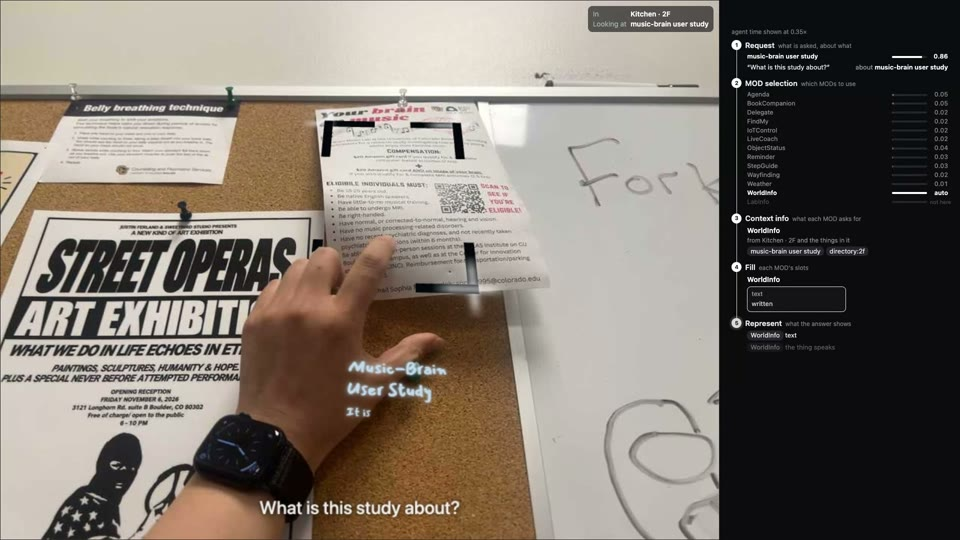
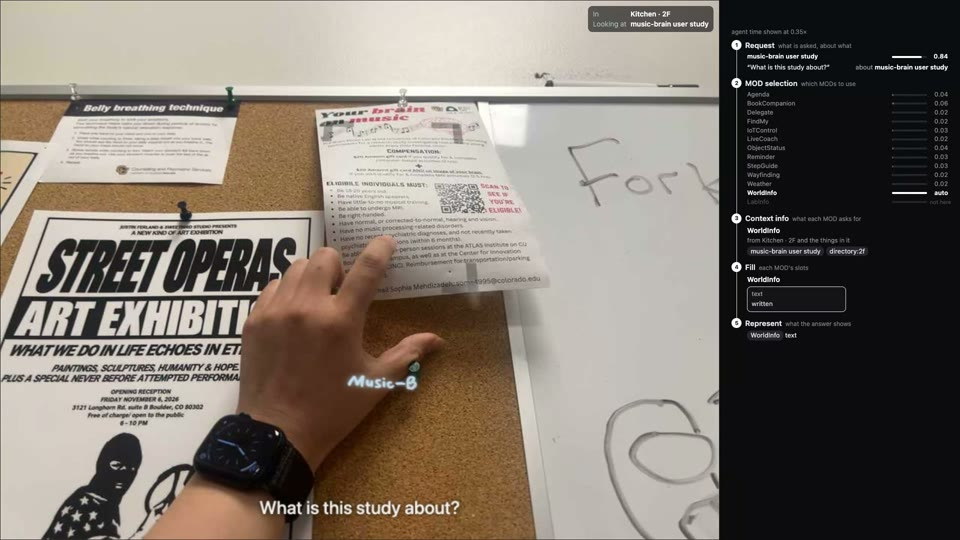
Design doc 10.15 (dialogue as a text form, legacy removed); WorldInfo clips re-recorded

diff --git a/recordings/manifest.js b/recordings/manifest.js
@@ -1,1 +1,1 @@
-window.MANIFEST={"clips":{"weather-corridor":{"name":"weather-corridor","mod":"Weather","question":"Do I need an umbrella tonight?","recording":"atlas_rec_2","ask_at":1,"video":"weather/weather-corridor.mp4","poster":"weather/weather-corridor.jpg","chosen":[["weather",0.98]],"answer":{"title":"No Umbrella Needed Tonight","body":"You won't need an umbrella tonight as soft snowfall is forecasted instead of rain."},"latency":1.23,"agent_speed":0.35},"worldinfo-text":{"name":"worldinfo-text","mod":"WorldInfo","question":"What is this study about?","recording":"atlas_rec_3","ask_at":48.6,"video":"worldinfo/worldinfo-text.mp4","poster":"worldinfo/worldinfo-text.jpg","chosen":[["worldinfo",1]],"answer":{"title":"Music-Brain User Study","body":"It is a user study where you can scan and sign up in the brain music lab after reading the requirements."},"latency":2.71,"agent_speed":0.35},"delegate-poster":{"name":"delegate-poster","mod":"Delegate","question":"Send this poster to Alice","recording":"atlas_rec_2","ask_at":7.1,"video":"delegate/delegate-poster.mp4","poster":"delegate/delegate-poster.jpg","chosen":[["delegate",0.98]],"answer":{"title":"Anastasia's Talk Poster","body":"Hi Alice, here is the poster for Anastasia's talk for your reference."},"latency":2.71,"agent_speed":0.35},"worldinfo-voice":{"name":"worldinfo-voice","mod":"WorldInfo","question":"Can I eat you?","recording":"atlas_rec_3","ask_at":18.1,"video":"worldinfo/worldinfo-voice.mp4","poster":"worldinfo/worldinfo-voice.jpg","chosen":[["worldinfo",1]],"answer":{"title":"Yes, you can eat me","body":"Yes, you can help yourself. I am leftover from this week's grad tea."},"latency":2.76,"agent_speed":0.35},"labinfo-wall":{"name":"labinfo-wall","mod":"LabInfo","question":"What is this lab about?","recording":"atlas_rec_4","ask_at":1,"video":"labinfo/labinfo-wall.mp4","poster":"labinfo/labinfo-wall.jpg","chosen":[["labinfo",0.9]],"answer":{"title":"Programmable Reality Lab Research","body":"This lab aims to make our living environment dynamic, interactive, and programmable using AR, VR, robotics, and shape-changing interfaces."},"latency":1.97,"agent_speed":0.35},"findmy":{"name":"findmy","mod":"FindMy","question":"Where are my headphones?","recording":"atlas_rec_4","ask_at":7,"video":"findmy/findmy.mp4","poster":"findmy/findmy.jpg","chosen":[["findmy",0.92]],"answer":{"title":"Headphones Location","body":"Your headphones are on shelf 3."},"latency":1.02,"agent_speed":0.35},"wayfinding-kitchen":{"name":"wayfinding-kitchen","mod":"Wayfinding","question":"How do I get to the kitchen?","recording":"atlas_rec_4","ask_at":1,"video":"wayfinding/wayfinding-kitchen.mp4","poster":"wayfinding/wayfinding-kitchen.jpg","chosen":[["wayfinding",0.98]],"answer":{"title":"Directions to the Kitchen","body":"Exit the lab, turn right into the lab corridor, go north to the central corridor, and find the kitchen on your left."},"latency":1.05,"agent_speed":0.35},"agenda-afternoon":{"name":"agenda-afternoon","mod":"Agenda","question":"What do I have this afternoon?","recording":"atlas_rec_4","ask_at":2.5,"video":"agenda/agenda-afternoon.mp4","poster":"agenda/agenda-afternoon.jpg","chosen":[["agenda",0.97]],"answer":{"title":"Afternoon Schedule","body":"You have badminton and a group meeting this afternoon."},"latency":1.16,"agent_speed":0.35},"labinfo-panorama":{"name":"labinfo-panorama","mod":"LabInfo","question":"What does this lab work on?","recording":"atlas_rec_5","ask_at":1,"video":"labinfo/labinfo-panorama.mp4","poster":"labinfo/labinfo-panorama.jpg","chosen":[["labinfo",0.95]],"answer":{"title":"Programmable Reality Lab Research","body":"PRL researches programmable reality, aiming to make the living environment dynamic and interactive through AR/VR, robotics, and shape-changing interfaces."},"latency":1.76,"agent_speed":0.35},"weather-lab":{"name":"weather-lab","mod":"Weather","question":"Will it rain this weekend?","recording":"atlas_rec_5","ask_at":1.5,"video":"weather/weather-lab.mp4","poster":"weather/weather-lab.jpg","chosen":[["weather",0.98]],"answer":{"title":"Weekend weather forecast","body":"No rain is expected this weekend. Saturday brings drifting mist, clear skies, and soft snowfall, while Sunday features drifting mist and soft snowfall."},"latency":1.24,"agent_speed":0.35},"iotcontrol-brighter":{"name":"iotcontrol-brighter","mod":"IoTControl","question":"I want to make the light brighter","recording":"atlas_rec_5","ask_at":1,"video":"iotcontrol/iotcontrol-brighter.mp4","poster":"iotcontrol/iotcontrol-brighter.jpg","chosen":[["iotcontrol",0.98]],"answer":{"title":"Desk Lamp Brightness Increased","body":"I have increased the desk lamp brightness to 60 percent."},"latency":1.04,"agent_speed":0.35},"objectstatus-printer":{"name":"objectstatus-printer","mod":"ObjectStatus","question":"Is the printer free?","recording":"atlas_rec_5","ask_at":1,"video":"objectstatus/objectstatus-printer.mp4","poster":"objectstatus/objectstatus-printer.jpg","chosen":[["objectstatus",0.98]],"answer":{"title":"Printer Status","body":"No, the printer is in use printing a 12-page poster for Ana and has about 4 minutes left."},"latency":1.15,"agent_speed":0.35},"iotcontrol-printer":{"name":"iotcontrol-printer","mod":"IoTControl","question":"How long until my print job is done?","recording":"atlas_rec_5","ask_at":1,"video":"iotcontrol/iotcontrol-printer.mp4","poster":"iotcontrol/iotcontrol-printer.jpg","chosen":[["iotcontrol",0.98]],"answer":{"title":"Print job status","body":"Your print job has about 2 minutes left."},"latency":1.07,"agent_speed":0.35},"bookcompanion-lighthouse":{"name":"bookcompanion-lighthouse","mod":"BookCompanion","question":"Remind me what happened in the part I'm reading","recording":"atlas_rec_5","ask_at":5,"video":"bookcompanion/bookcompanion-lighthouse.mp4","poster":"bookcompanion/bookcompanion-lighthouse.jpg","chosen":[["bookcompanion",0.92]],"answer":{"title":"Current Reading","body":"No information about the part you are reading is currently available."},"latency":0.97,"agent_speed":0.35},"stepguide-espresso":{"name":"stepguide-espresso","mod":"StepGuide","question":"How do I make an espresso with this?","recording":"atlas_rec_5","ask_at":47,"video":"stepguide/stepguide-espresso.mp4","poster":"stepguide/stepguide-espresso.jpg","chosen":[["stepguide",0.9]],"answer":{"title":"Making an espresso","body":"Fill the water tank to the MAX line, grind 18 g of beans, tamp firmly, lock the portafilter in, and press the double-cup button."},"latency":1.2,"agent_speed":0.35},"livecoach-stretch":{"name":"livecoach-stretch","mod":"LiveCoach","question":"How should I stretch after sitting all day?","recording":"atlas_rec_5","ask_at":5.5,"video":"livecoach/livecoach-stretch.mp4","poster":"livecoach/livecoach-stretch.jpg","chosen":[["livecoach",0.64]],"answer":{"title":"Post-Sitting Stretch Routine","body":"Tilt ears to shoulders, roll shoulders back, round upper back, open chest, and do a seated spine twist."},"latency":1.2,"agent_speed":0.35},"reminder-espresso":{"name":"reminder-espresso","mod":"Reminder","question":"Remind me to refill the water tank tomorrow morning","recording":"atlas_rec_5","ask_at":48.5,"video":"reminder/reminder-espresso.mp4","poster":"reminder/reminder-espresso.jpg","chosen":[["reminder",0.97]],"answer":{"title":"Water Tank Reminder","body":"I will remind you to refill the water tank tomorrow morning."},"latency":1.04,"agent_speed":0.35},"weather-umbrella":{"name":"weather-umbrella","mod":"Weather","question":"Should I bring my umbrella?","recording":"atlas_rec_5","ask_at":1.5,"video":"weather/weather-umbrella.mp4","poster":"weather/weather-umbrella.jpg","chosen":[["findmy",0.59],["weather",0.96]],"answer":{"title":"Umbrella Check","body":"Yes, bring your umbrella because soft snowfall is expected this evening."},"latency":1.08,"agent_speed":0.35},"iotcontrol-tv":{"name":"iotcontrol-tv","mod":"IoTControl","question":"Switch the TV to HDMI 2","recording":"atlas_rec_5","ask_at":1,"video":"iotcontrol/iotcontrol-tv.mp4","poster":"iotcontrol/iotcontrol-tv.jpg","chosen":[["iotcontrol",0.99]],"answer":{"title":"TV Input Switched","body":"The TV is now set to HDMI 2."},"latency":0.99,"agent_speed":0.35},"delegate-describe":{"name":"delegate-describe","mod":"Delegate","question":"Describe this and draft a message to Alice","recording":"atlas_rec_2","ask_at":7.1,"video":"delegate/delegate-describe.mp4","poster":"delegate/delegate-describe.jpg","chosen":[["delegate",0.66]],"answer":{"title":"Anastasia's Talk Poster","body":"Anastasia Kouvaras Ostrowski, Assistant Professor at Purdue, focuses on HRI, HCI, and human-centered AI."},"latency":2.84,"agent_speed":0.35},"delegate-photo":{"name":"delegate-photo","mod":"Delegate","question":"Take a photo of this and send it to Alice","recording":"atlas_rec_2","ask_at":7.1,"video":"delegate/delegate-photo.mp4","poster":"delegate/delegate-photo.jpg","chosen":[["delegate",0.97]],"answer":{"title":"Poster of Anastasia's Talk","body":"Here is a photo of the Poster of Anastasia's Talk for you."},"latency":2.71,"agent_speed":0.35}},"recorded":"2026-11-18T01:29:03.866Z"};
+window.MANIFEST={"clips":{"weather-corridor":{"name":"weather-corridor","mod":"Weather","question":"Do I need an umbrella tonight?","recording":"atlas_rec_2","ask_at":1,"video":"weather/weather-corridor.mp4","poster":"weather/weather-corridor.jpg","chosen":[["weather",0.98]],"answer":{"title":"No Umbrella Needed Tonight","body":"You won't need an umbrella tonight as soft snowfall is forecasted instead of rain."},"latency":1.23,"agent_speed":0.35},"worldinfo-text":{"name":"worldinfo-text","mod":"WorldInfo","question":"What is this study about?","recording":"atlas_rec_3","ask_at":48.6,"video":"worldinfo/worldinfo-text.mp4","poster":"worldinfo/worldinfo-text.jpg","chosen":[["worldinfo",1]],"answer":{"title":"Music-Brain User Study Details","body":"This user study is conducted by the Brain Music Lab. You can scan to sign up after reading the eligibility requirements."},"latency":2.99,"agent_speed":0.35},"delegate-poster":{"name":"delegate-poster","mod":"Delegate","question":"Send this poster to Alice","recording":"atlas_rec_2","ask_at":7.1,"video":"delegate/delegate-poster.mp4","poster":"delegate/delegate-poster.jpg","chosen":[["delegate",0.98]],"answer":{"title":"Anastasia's Talk Poster","body":"Hi Alice, here is the poster for Anastasia's talk for your reference."},"latency":2.71,"agent_speed":0.35},"worldinfo-voice":{"name":"worldinfo-voice","mod":"WorldInfo","question":"Can I eat you?","recording":"atlas_rec_3","ask_at":18.1,"video":"worldinfo/worldinfo-voice.mp4","poster":"worldinfo/worldinfo-voice.jpg","chosen":[["worldinfo",1]],"answer":{"title":"Eat the Candy","body":"Yes, you can eat me. I am leftover candy from this week's grad tea, and people are welcome to help themselves."},"latency":2.82,"agent_speed":0.35},"labinfo-wall":{"name":"labinfo-wall","mod":"LabInfo","question":"What is this lab about?","recording":"atlas_rec_4","ask_at":1,"video":"labinfo/labinfo-wall.mp4","poster":"labinfo/labinfo-wall.jpg","chosen":[["labinfo",0.9]],"answer":{"title":"Programmable Reality Lab Research","body":"This lab aims to make our living environment dynamic, interactive, and programmable using AR, VR, robotics, and shape-changing interfaces."},"latency":1.97,"agent_speed":0.35},"findmy":{"name":"findmy","mod":"FindMy","question":"Where are my headphones?","recording":"atlas_rec_4","ask_at":7,"video":"findmy/findmy.mp4","poster":"findmy/findmy.jpg","chosen":[["findmy",0.92]],"answer":{"title":"Headphones Location","body":"Your headphones are on shelf 3."},"latency":1.02,"agent_speed":0.35},"wayfinding-kitchen":{"name":"wayfinding-kitchen","mod":"Wayfinding","question":"How do I get to the kitchen?","recording":"atlas_rec_4","ask_at":1,"video":"wayfinding/wayfinding-kitchen.mp4","poster":"wayfinding/wayfinding-kitchen.jpg","chosen":[["wayfinding",0.98]],"answer":{"title":"Directions to the Kitchen","body":"Exit the lab, turn right into the lab corridor, go north to the central corridor, and find the kitchen on your left."},"latency":1.05,"agent_speed":0.35},"agenda-afternoon":{"name":"agenda-afternoon","mod":"Agenda","question":"What do I have this afternoon?","recording":"atlas_rec_4","ask_at":2.5,"video":"agenda/agenda-afternoon.mp4","poster":"agenda/agenda-afternoon.jpg","chosen":[["agenda",0.97]],"answer":{"title":"Afternoon Schedule","body":"You have badminton and a group meeting this afternoon."},"latency":1.16,"agent_speed":0.35},"labinfo-panorama":{"name":"labinfo-panorama","mod":"LabInfo","question":"What does this lab work on?","recording":"atlas_rec_5","ask_at":1,"video":"labinfo/labinfo-panorama.mp4","poster":"labinfo/labinfo-panorama.jpg","chosen":[["labinfo",0.95]],"answer":{"title":"Programmable Reality Lab Research","body":"PRL researches programmable reality, aiming to make the living environment dynamic and interactive through AR/VR, robotics, and shape-changing interfaces."},"latency":1.76,"agent_speed":0.35},"weather-lab":{"name":"weather-lab","mod":"Weather","question":"Will it rain this weekend?","recording":"atlas_rec_5","ask_at":1.5,"video":"weather/weather-lab.mp4","poster":"weather/weather-lab.jpg","chosen":[["weather",0.98]],"answer":{"title":"Weekend weather forecast","body":"No rain is expected this weekend. Saturday brings drifting mist, clear skies, and soft snowfall, while Sunday features drifting mist and soft snowfall."},"latency":1.24,"agent_speed":0.35},"iotcontrol-brighter":{"name":"iotcontrol-brighter","mod":"IoTControl","question":"I want to make the light brighter","recording":"atlas_rec_5","ask_at":1,"video":"iotcontrol/iotcontrol-brighter.mp4","poster":"iotcontrol/iotcontrol-brighter.jpg","chosen":[["iotcontrol",0.98]],"answer":{"title":"Desk Lamp Brightness Increased","body":"I have increased the desk lamp brightness to 60 percent."},"latency":1.04,"agent_speed":0.35},"objectstatus-printer":{"name":"objectstatus-printer","mod":"ObjectStatus","question":"Is the printer free?","recording":"atlas_rec_5","ask_at":1,"video":"objectstatus/objectstatus-printer.mp4","poster":"objectstatus/objectstatus-printer.jpg","chosen":[["objectstatus",0.98]],"answer":{"title":"Printer Status","body":"No, the printer is in use printing a 12-page poster for Ana and has about 4 minutes left."},"latency":1.15,"agent_speed":0.35},"iotcontrol-printer":{"name":"iotcontrol-printer","mod":"IoTControl","question":"How long until my print job is done?","recording":"atlas_rec_5","ask_at":1,"video":"iotcontrol/iotcontrol-printer.mp4","poster":"iotcontrol/iotcontrol-printer.jpg","chosen":[["iotcontrol",0.98]],"answer":{"title":"Print job status","body":"Your print job has about 2 minutes left."},"latency":1.07,"agent_speed":0.35},"bookcompanion-lighthouse":{"name":"bookcompanion-lighthouse","mod":"BookCompanion","question":"Remind me what happened in the part I'm reading","recording":"atlas_rec_5","ask_at":5,"video":"bookcompanion/bookcompanion-lighthouse.mp4","poster":"bookcompanion/bookcompanion-lighthouse.jpg","chosen":[["bookcompanion",0.92]],"answer":{"title":"Current Reading","body":"No information about the part you are reading is currently available."},"latency":0.97,"agent_speed":0.35},"stepguide-espresso":{"name":"stepguide-espresso","mod":"StepGuide","question":"How do I make an espresso with this?","recording":"atlas_rec_5","ask_at":47,"video":"stepguide/stepguide-espresso.mp4","poster":"stepguide/stepguide-espresso.jpg","chosen":[["stepguide",0.9]],"answer":{"title":"Making an espresso","body":"Fill the water tank to the MAX line, grind 18 g of beans, tamp firmly, lock the portafilter in, and press the double-cup button."},"latency":1.2,"agent_speed":0.35},"livecoach-stretch":{"name":"livecoach-stretch","mod":"LiveCoach","question":"How should I stretch after sitting all day?","recording":"atlas_rec_5","ask_at":5.5,"video":"livecoach/livecoach-stretch.mp4","poster":"livecoach/livecoach-stretch.jpg","chosen":[["livecoach",0.64]],"answer":{"title":"Post-Sitting Stretch Routine","body":"Tilt ears to shoulders, roll shoulders back, round upper back, open chest, and do a seated spine twist."},"latency":1.2,"agent_speed":0.35},"reminder-espresso":{"name":"reminder-espresso","mod":"Reminder","question":"Remind me to refill the water tank tomorrow morning","recording":"atlas_rec_5","ask_at":48.5,"video":"reminder/reminder-espresso.mp4","poster":"reminder/reminder-espresso.jpg","chosen":[["reminder",0.97]],"answer":{"title":"Water Tank Reminder","body":"I will remind you to refill the water tank tomorrow morning."},"latency":1.04,"agent_speed":0.35},"weather-umbrella":{"name":"weather-umbrella","mod":"Weather","question":"Should I bring my umbrella?","recording":"atlas_rec_5","ask_at":1.5,"video":"weather/weather-umbrella.mp4","poster":"weather/weather-umbrella.jpg","chosen":[["findmy",0.59],["weather",0.96]],"answer":{"title":"Umbrella Check","body":"Yes, bring your umbrella because soft snowfall is expected this evening."},"latency":1.08,"agent_speed":0.35},"iotcontrol-tv":{"name":"iotcontrol-tv","mod":"IoTControl","question":"Switch the TV to HDMI 2","recording":"atlas_rec_5","ask_at":1,"video":"iotcontrol/iotcontrol-tv.mp4","poster":"iotcontrol/iotcontrol-tv.jpg","chosen":[["iotcontrol",0.99]],"answer":{"title":"TV Input Switched","body":"The TV is now set to HDMI 2."},"latency":0.99,"agent_speed":0.35},"delegate-describe":{"name":"delegate-describe","mod":"Delegate","question":"Describe this and draft a message to Alice","recording":"atlas_rec_2","ask_at":7.1,"video":"delegate/delegate-describe.mp4","poster":"delegate/delegate-describe.jpg","chosen":[["delegate",0.66]],"answer":{"title":"Anastasia's Talk Poster","body":"Anastasia Kouvaras Ostrowski, Assistant Professor at Purdue, focuses on HRI, HCI, and human-centered AI."},"latency":2.84,"agent_speed":0.35},"delegate-photo":{"name":"delegate-photo","mod":"Delegate","question":"Take a photo of this and send it to Alice","recording":"atlas_rec_2","ask_at":7.1,"video":"delegate/delegate-photo.mp4","poster":"delegate/delegate-photo.jpg","chosen":[["delegate",0.97]],"answer":{"title":"Poster of Anastasia's Talk","body":"Here is a photo of the Poster of Anastasia's Talk for you."},"latency":2.71,"agent_speed":0.35}},"recorded":"2026-11-18T01:49:51.934Z"};
